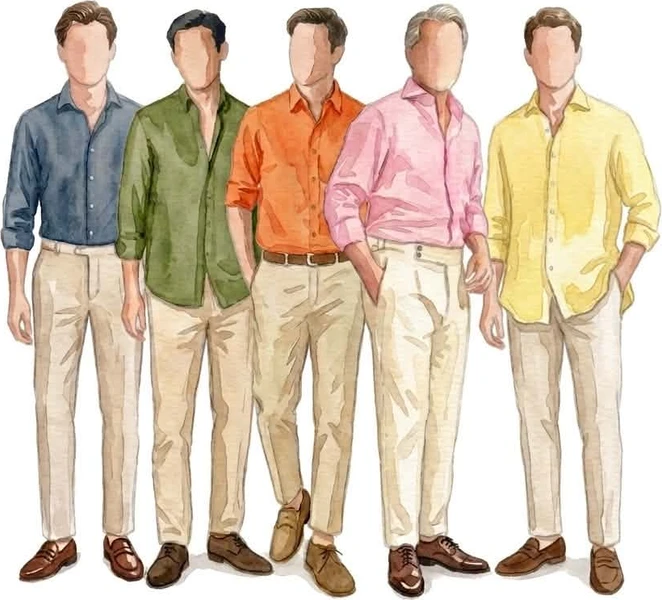
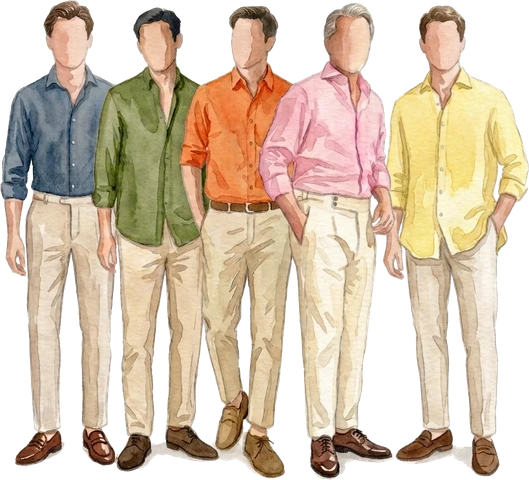
feat: refresh gentlemen/ladies dress code art and shrink card size
Regenerates public/men-attire.webp and public/women-attire.webp from
newly supplied source PNGs (in place of the superseded jpg crops),
and marks both cards compact like groomsmen/bridesmaids so the wide
multi-guest illustrations don't dominate the Dress Code section.

diff --git a/src/components/shared/DressCodeSection.tsx b/src/components/shared/DressCodeSection.tsx
@@ -29,12 +29,14 @@ const CARD_DEFS: Record<DressCodeCardKey, DressCodeCardDef> = {
     images: ['/men-attire.webp'],
     caption: 'Classic Polo',
     detail: 'Long-sleeve, any color',
+    compact: true,
   },
   ladies: {
     label: 'Ladies',
     images: ['/women-attire.webp'],
     caption: 'Soft, Airy Long Gown',
     detail: 'Any color except white',
+    compact: true,
   },
 };
 
